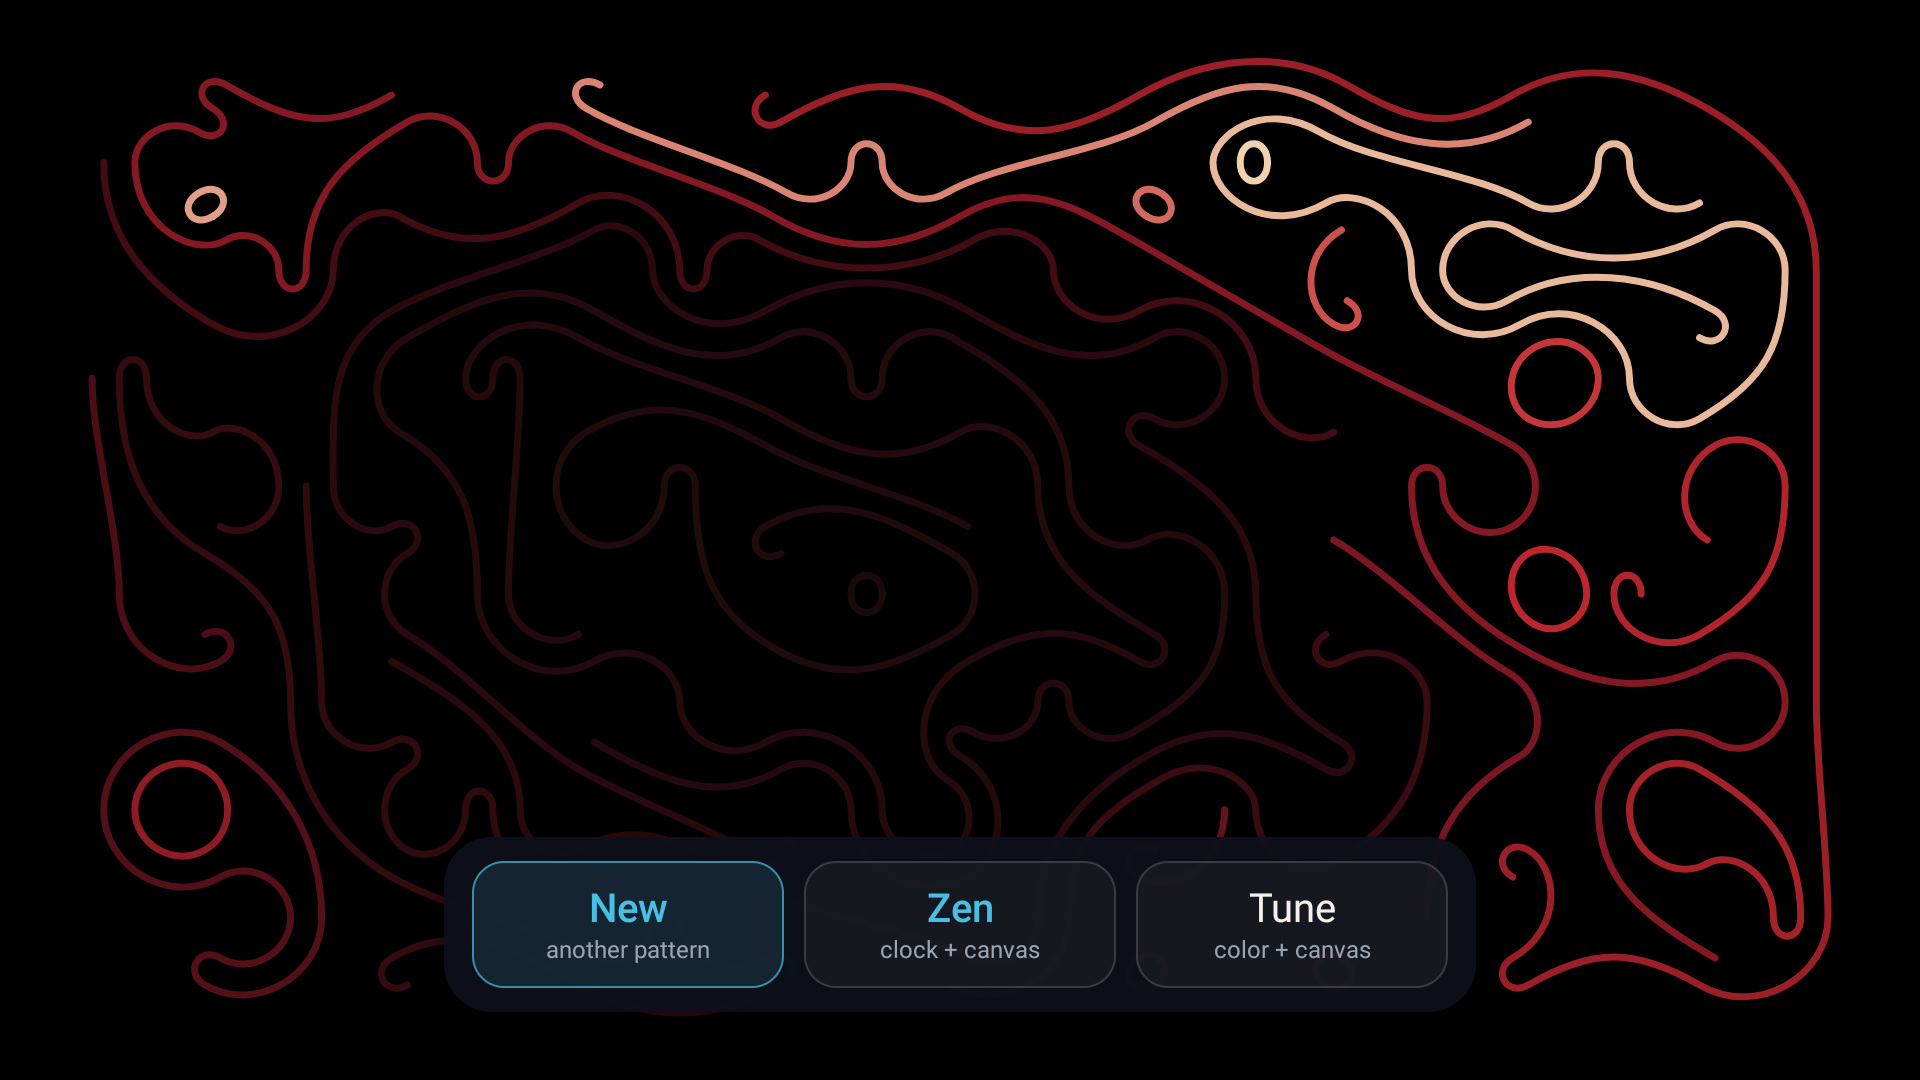
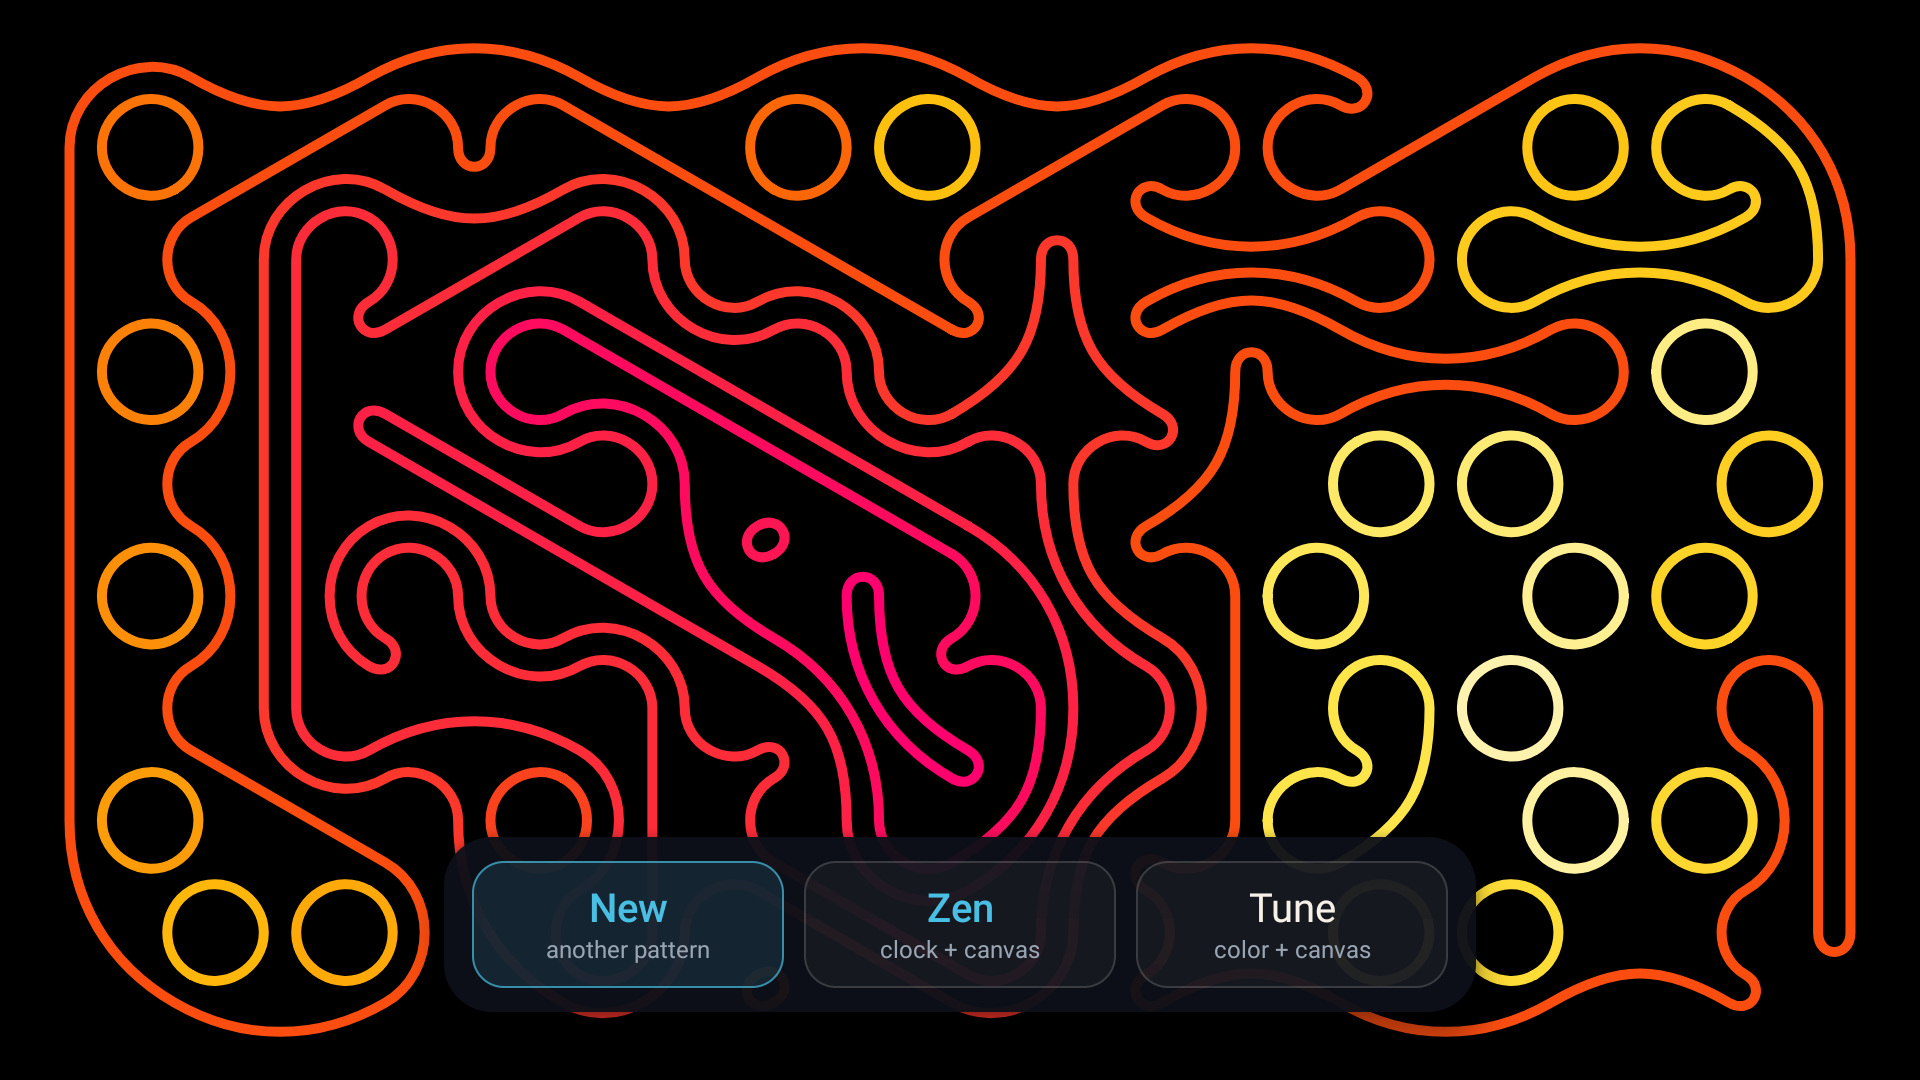
assets(tv): refresh Amazon Mandaza listing art

diff --git a/android/tv/amazon-listing/SCREENSHOT-METADATA.md b/android/tv/amazon-listing/SCREENSHOT-METADATA.md
@@ -4,10 +4,21 @@ Captured over ADB from the physical AFTTI43 Fire TV running the signed
 `MandazaTV 1.3.1 (20301)` release at its Amazon-provided 1920×1080 app surface.
 No device frame, marketing overlay, or simulated content has been added.
 
+## Background image
+
 | File | Caption | Alt text |
 |---|---|---|
-| `01_main-rail-1920x1080.jpg` | Create a new composition or open Zen and Tune from the remote-first rail. | A red and cream generative line composition on black behind three large New, Zen, and Tune television controls. |
-| `02_zen-clock-1920x1080.jpg` | Turn the canvas into a quiet clock with Zen mode. | A centered time and date over a dense red, cream, and black generative line composition. |
-| `03_tune-panel-1920x1080.jpg` | Choose a palette, canvas mood, and clock from Tune. | The Tune panel over an Oxblood composition, with previous color, next color, dark canvas, and clock controls. |
-| `04_paper-canvas-1920x1080.jpg` | Switch to a warm Paper canvas when the room calls for something lighter. | A dense green Canopy composition on a warm paper background with Paper canvas selected in Tune. |
-| `05_ambient-canvas-1920x1080.jpg` | Hide the controls and let the completed composition fill the television. | A full-screen red and cream generative line composition on black with only a subtle remote hint at the bottom. |
+| `fire-tv-background-1920x1080.jpg` | Pure Mandaza generative artwork for the Fire TV detail background. | Warm amber and gold glowing procedural line forms spread across a black 16:9 canvas, leaving quiet negative space near the center. |
+
+Captured from the live `mandaza.app` renderer on 2026-08-10 at 1920×1080,
+without a clock, controls, logo, browser chrome, or added marketing content.
+
+## Screenshots
+
+| File | Caption | Alt text |
+|---|---|---|
+| `01_main-rail-1920x1080.jpg` | Create a new composition or open Zen and Tune from the remote-first rail. | A dense orange, red, and yellow procedural line composition on black behind the New, Zen, and Tune television controls. |
+| `02_zen-clock-1920x1080.jpg` | Turn the canvas into a quiet clock with Zen mode. | A centered 8:53 clock and date over a separate dark red and orange procedural composition. |
+| `03_tune-panel-1920x1080.jpg` | Choose a palette, canvas mood, and clock from Tune. | The Tune panel over a separate cyan, violet, and green Vaporwave composition, with palette, canvas, and clock controls. |
+| `04_paper-canvas-1920x1080.jpg` | Switch to a warm Paper canvas when the room calls for something lighter. | A separate pastel Risograph composition on a warm cream Paper canvas with Paper canvas selected in Tune. |
+| `05_ambient-canvas-1920x1080.jpg` | Hide the controls and let each generated composition fill the television. | A separate full-screen cyan, blue, yellow, and green procedural line composition on black with a subtle remote hint along the bottom. |

diff --git a/android/tv/amazon-listing/ASSET-MAP.md b/android/tv/amazon-listing/ASSET-MAP.md
@@ -15,14 +15,18 @@ Upload from this folder (`android/tv/amazon-listing/`).
 | Screenshot 5 | `screenshots/05_ambient-canvas-1920x1080.jpg` | 1920×1080 |
 | Listing copy | `amazon.txt` | — |
 
-Icons and background derive from Mandaza brand art. The five screenshots are
-physical AFTTI43 Fire TV captures of the signed `1.3.1 (20301)` release. Captions
-and accessible descriptions are in `SCREENSHOT-METADATA.md`.
+The background is a direct 1920×1080 capture from the live `mandaza.app`
+renderer: pure Mandaza artwork with no clock, controls, logo, browser chrome, or
+marketing overlay. The five screenshots are distinct physical AFTTI43 Fire TV
+captures of the signed `1.3.1 (20301)` release. Captions and accessible
+descriptions for every marketing image are in `SCREENSHOT-METADATA.md`.
 
 ## Verified Fire TV screenshot requirements
 
-- Source: https://developer.amazon.com/docs/app-submission/appstore-details.html#fire-tv-assets
-- Retrieved: 2026-08-09
+- Primary source: https://developer.amazon.com/docs/app-submission/appstore-details.html#fire-tv-assets
+- Capture guidance: https://developer.amazon.com/docs/app-submission/taking-screenshots.html
+- Test criteria: https://developer.amazon.com/docs/app-testing/test-criteria.html
+- Retrieved: 2026-08-10
 - Source revision shown by Amazon: 2026-01-06
 - Target: Amazon Fire TV, AFTTI43 / Fire OS 7; Amazon Appstore submission
 - Requirement: 3–10 screenshots, 1920×1080 landscape, JPG or opaque 24-bit PNG
